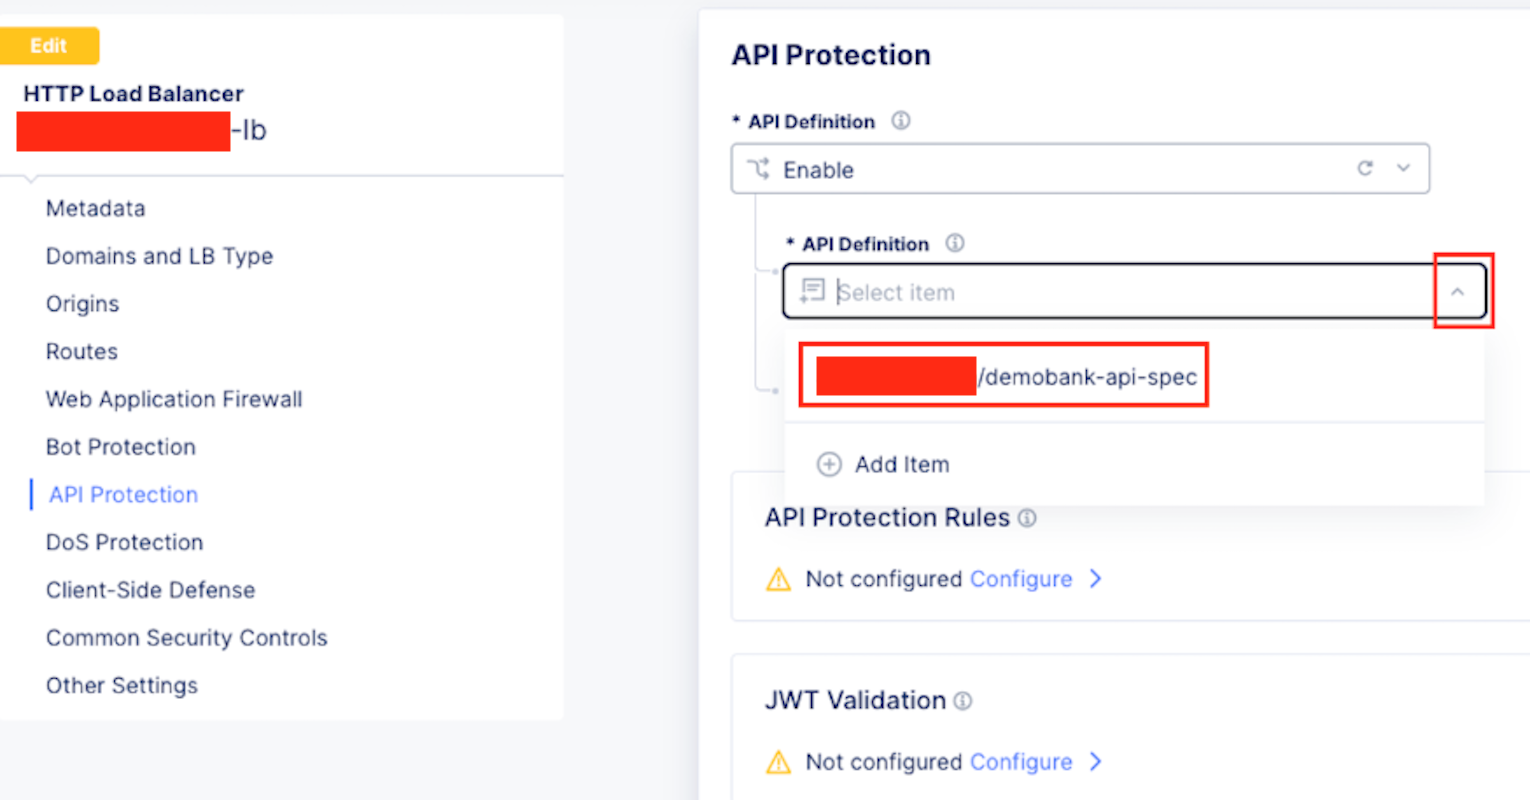
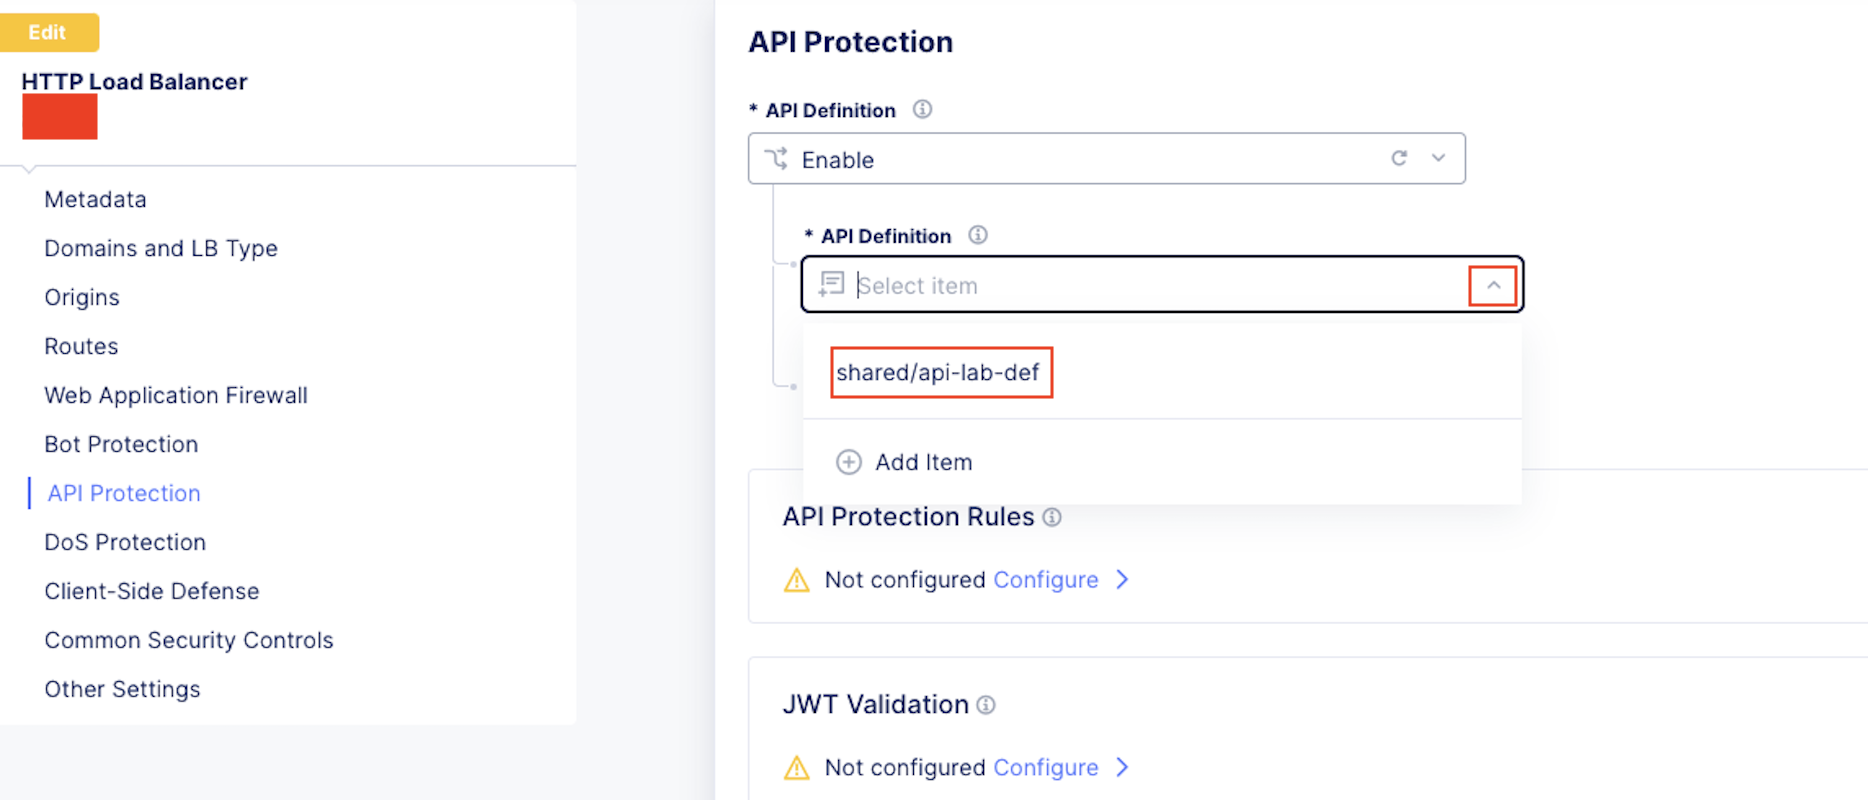
lab2

diff --git a/docs/class4/lab2.rst b/docs/class4/lab2.rst
@@ -92,13 +92,10 @@ pointer to imported swagger files you just uploaded.
 #. In the left-hand navigation of the **Web App & API Protection** service, click on **API**
    **Management** under the **Manage** section and then click **API Definition**.
 
-   .. image:: _static/lab2-task3-001.png
-      :width: 800px
-
 #. You will see "api-lab-def" file. This step has been preconfigured for your convenience, referencing the previously created OpenAPI file (api-lab-swagger) in the API definition file (api-lab-def).
 
 
-   .. image:: _static/lab2-task3-002.png
+   .. image:: _static/lab2-task3-001.png
       :width: 800px
 
 
